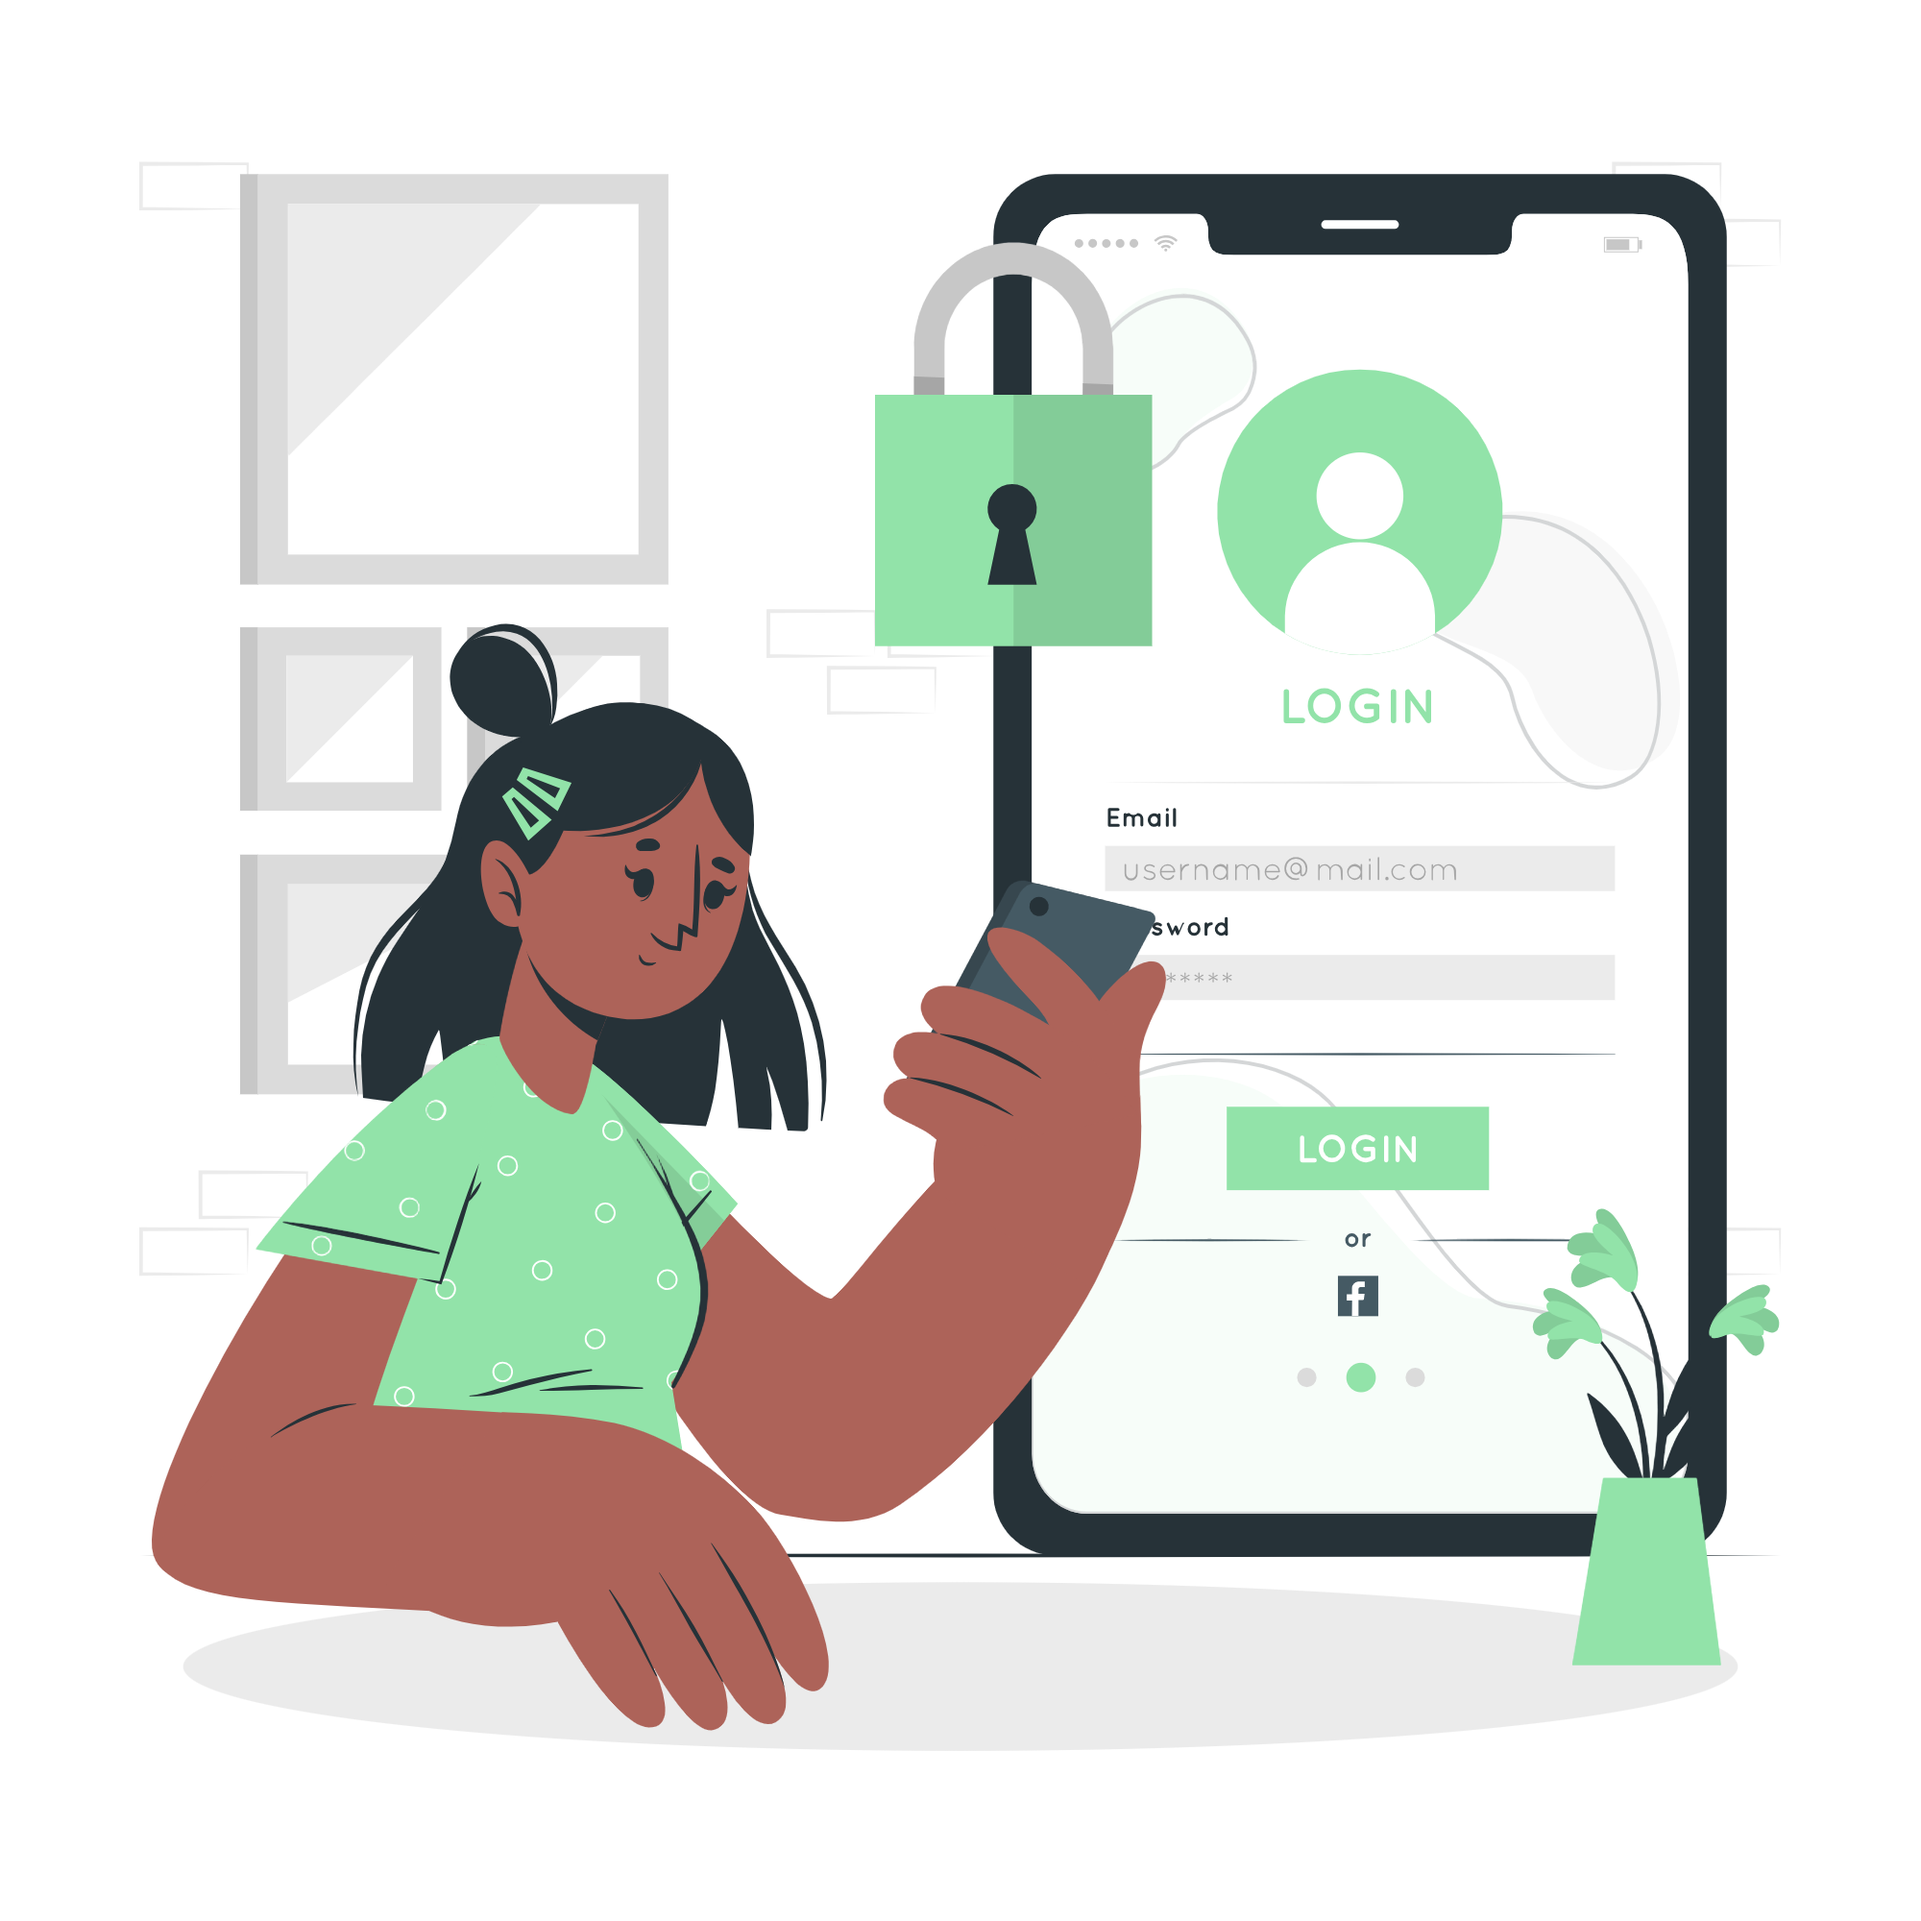
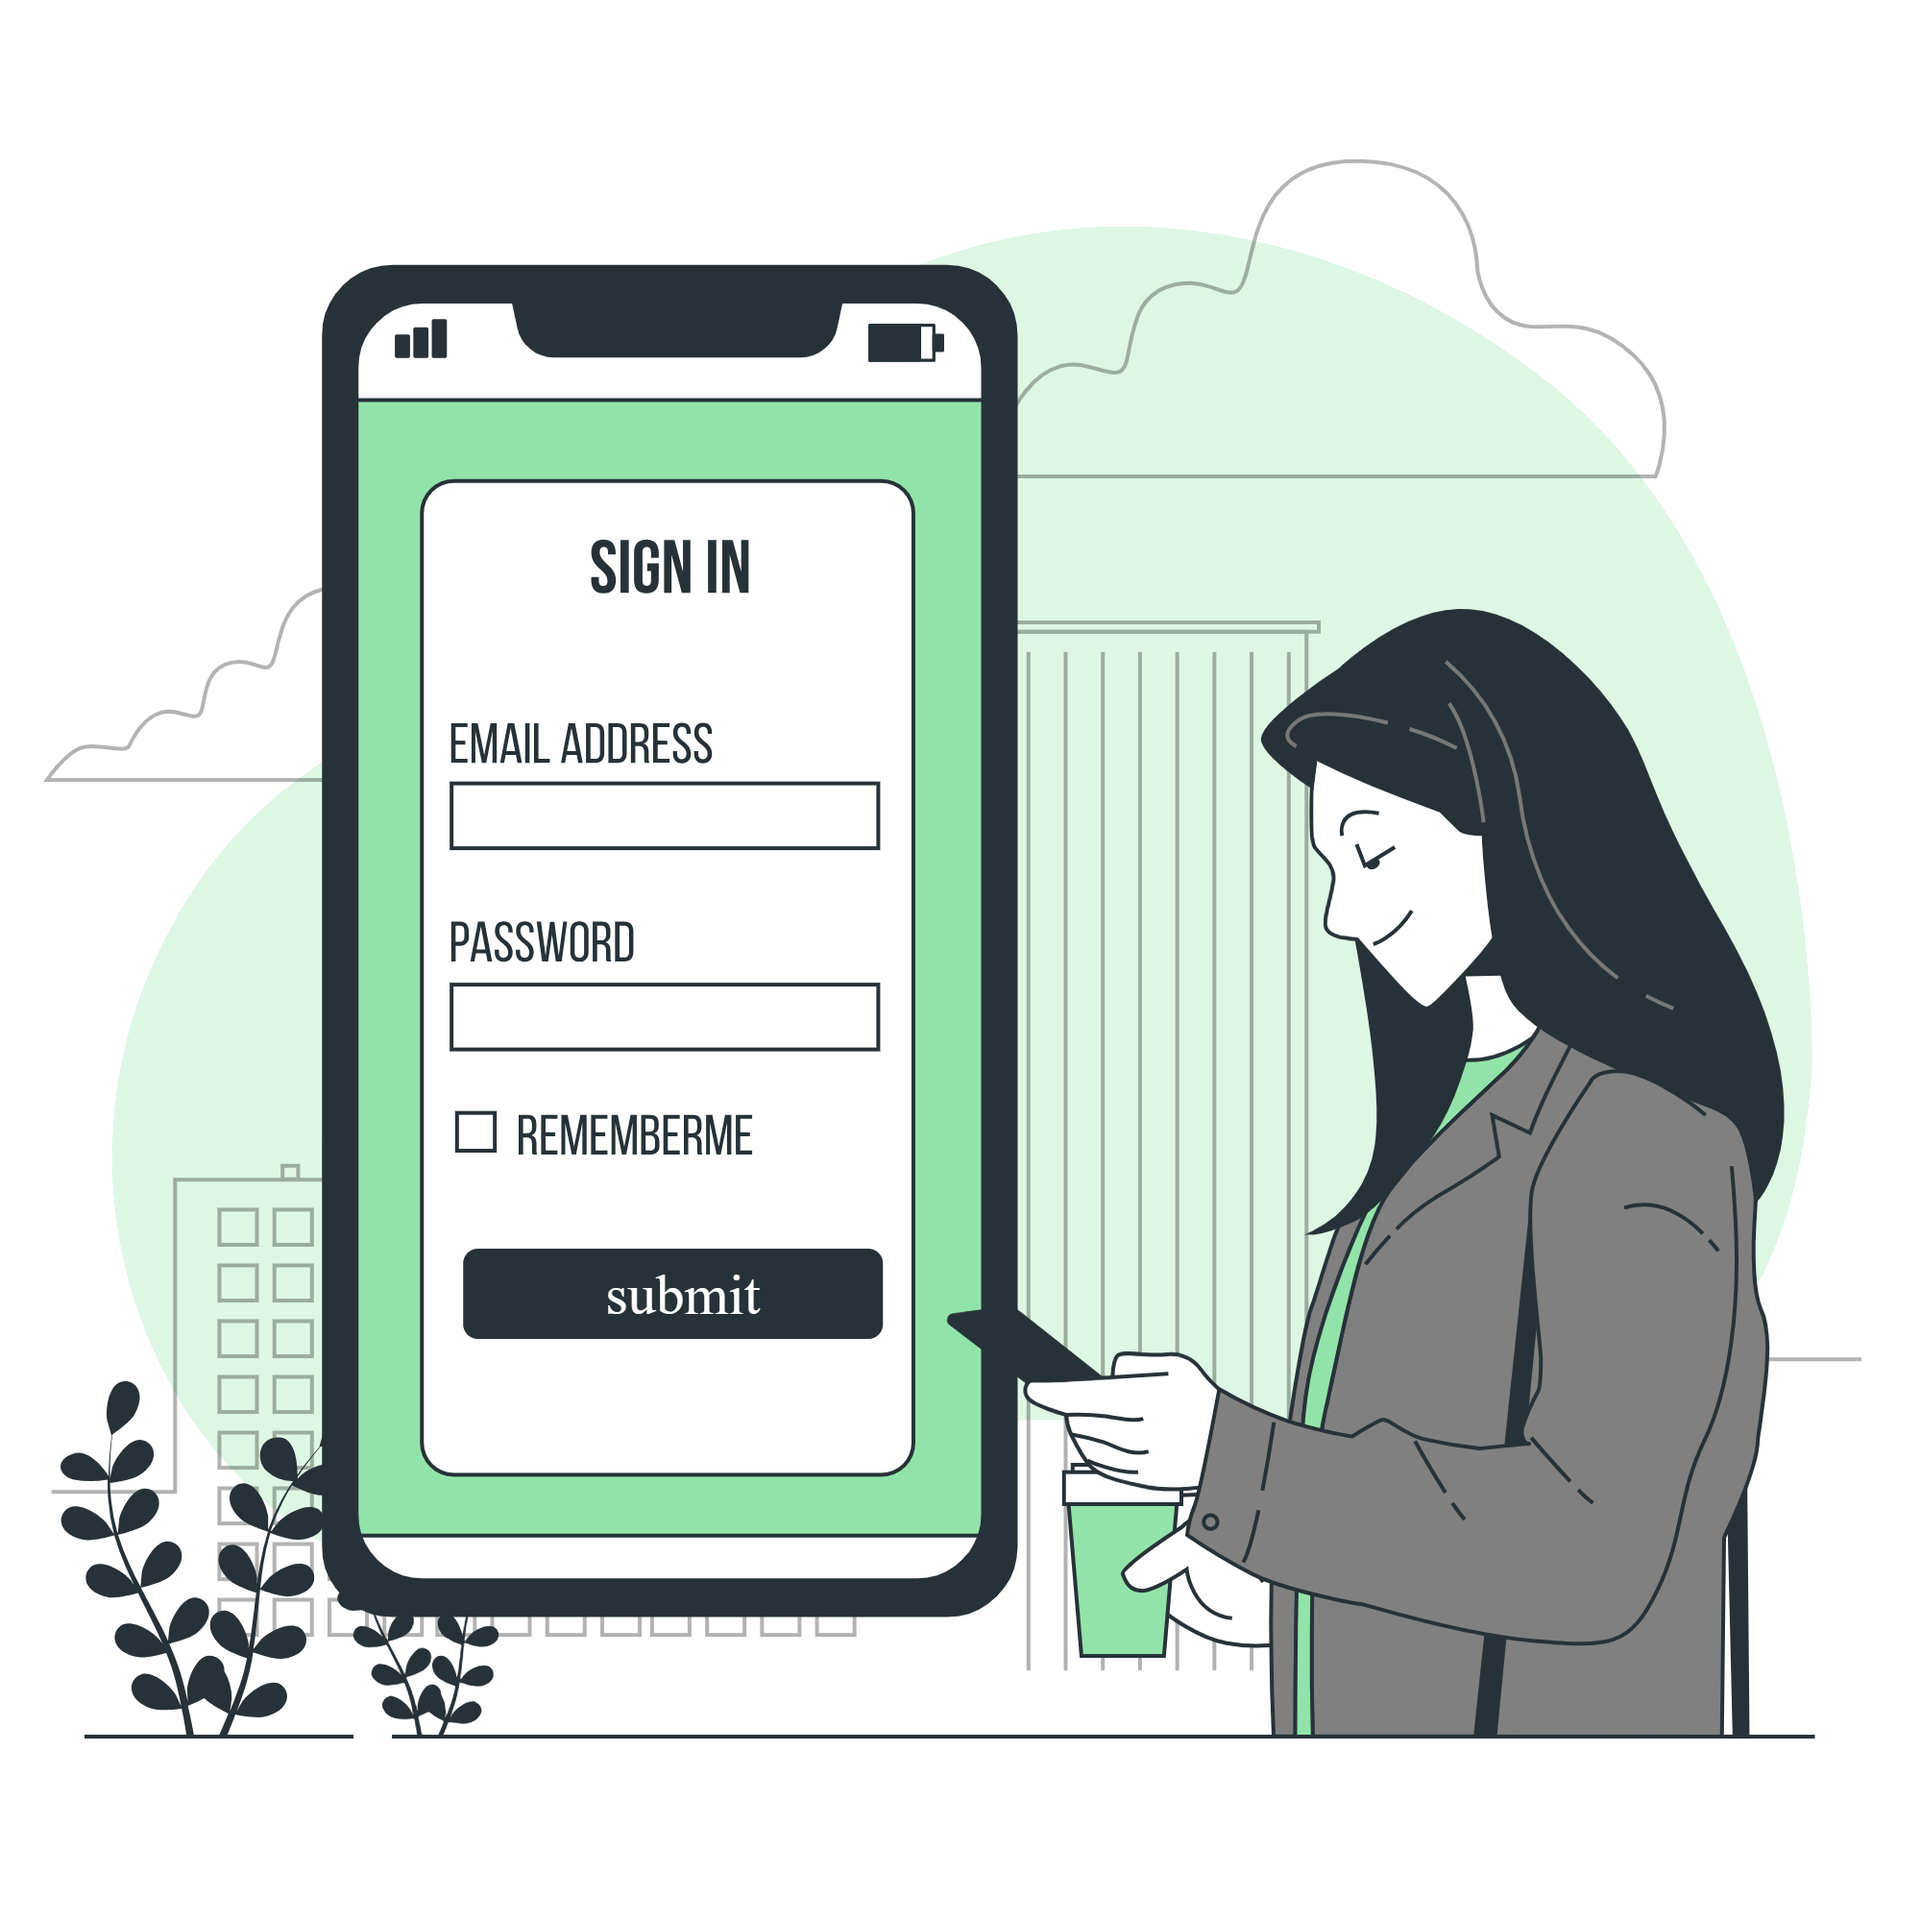
custom hook useAuth is ready

diff --git a/app/(auth)/signIn.jsx b/app/(auth)/signIn.jsx
@@ -9,25 +9,32 @@ import {
   KeyboardAvoidingView,
   Platform,
   Image,
+  ActivityIndicator,
 } from "react-native";
 import { useRouter } from "expo-router";
 import { Ionicons } from "@expo/vector-icons";
-import { useDispatch } from "react-redux";
+import { useDispatch, useSelector } from "react-redux";
 
 const loginHero = require("../../assets/images/auth/login.png");
 
 export default function SignIn() {
+  const loading = useSelector((state) => state.auth.loading);
   const dispatch = useDispatch();
   const router = useRouter();
   const [email, setEmail] = useState("");
   const [password, setPassword] = useState("");
   const [showPass, setShowPass] = useState(false);
 
+  const isDisabled = loading || !email.trim() || !password;
+
   const handleLogin = () => {
-    // if (!email.trim() || !password) return;
+    if (isDisabled) return;
     dispatch({
       type: "LOGIN",
-      payload: { loginData: { email: email.trim(), password } },
+      payload: {
+        loginData: { email: email.trim(), password },
+        navigate: (path) => router.replace(path),
+      },
     });
   };
 
@@ -129,11 +136,18 @@ export default function SignIn() {
               <View className="mt-6">
                 <Pressable
                   onPress={handleLogin}
-                  className="h-14 rounded-[28px] bg-[#1E6DFF] items-center justify-center"
+                  disabled={isDisabled}
+                  className={`h-14 rounded-[28px] items-center justify-center ${
+                    isDisabled ? "bg-[#1E6DFF]/60" : "bg-[#1E6DFF]"
+                  }`}
                 >
-                  <Text className="text-white text-[16px] font-semibold">
-                    Login
-                  </Text>
+                  {loading ? (
+                    <ActivityIndicator size="small" color="#fff" />
+                  ) : (
+                    <Text className="text-white text-[16px] font-semibold">
+                      Login
+                    </Text>
+                  )}
                 </Pressable>
 
                 <View className="mt-7 flex-row items-center">

diff --git a/sagas/Auth/authSaga.js b/sagas/Auth/authSaga.js
@@ -31,7 +31,7 @@ function* clearToken() {
 
 // Login Saga
 function* loginSaga({ payload }) {
-  const { loginData } = payload;
+  const { loginData, navigate } = payload || {};
   try {
     yield put(loginStart());
 
@@ -50,6 +50,12 @@ function* loginSaga({ payload }) {
     // persist token for fetcher and keep in Redux (persisted slice)
     yield call(setToken, data.token);
     yield put(loginSuccess(data));
+
+    // role-based redirect
+    if (navigate) {
+      const dest = data?.user?.role === "teacher" ? "/" : "/home";
+      yield call(navigate, dest);
+    }
   } catch (error) {
     const message = error.message || "Login failed.";
     yield put(loginFailure(message));
@@ -81,13 +87,21 @@ function* registerSaga({ payload }) {
   }
 }
 
-function* logoutSaga() {
+function* logoutSaga({ payload }) {
+  const { navigate } = payload || {};
   // Clear device token + reset Redux state
   yield call(clearToken);
   yield put(signedOut());
 
-  // OPTIONAL: fully wipe persisted auth from storage (off by default)
+  // OPTIONAL: wipe persisted state (keep if you want a hard reset)
   yield call(purgeStoredState, authPersistConfig);
+
+  // Navigate back to Welcome
+  if (navigate) {
+    // pick the one that matches your folder:
+    const dest = "/(auth)/welcome"; // or "/welcome"
+    yield call(navigate, dest);
+  }
 }
 
 // Root Auth Saga

diff --git a/components/Teacher/HomeScreen/Header.jsx b/components/Teacher/HomeScreen/Header.jsx
@@ -1,7 +1,21 @@
 import { View, Text, Image, TouchableOpacity } from "react-native";
 import { Feather, Ionicons } from "@expo/vector-icons";
+import { useDispatch } from "react-redux";
+import { useRouter } from "expo-router";
 
 const Header = () => {
+  const dispatch = useDispatch();
+
+  const router = useRouter();
+
+  const onLogout = () => {
+    dispatch({
+      type: "LOGOUT",
+      payload: {
+        navigate: (path) => router.replace(path),
+      },
+    });
+  };
   return (
     <View className="flex-row items-center justify-between ">
       <View className="flex-row items-center ">
@@ -26,6 +40,13 @@ const Header = () => {
         <TouchableOpacity className="p-2 rounded-full bg-white/10 relative">
           <Ionicons name="notifications-outline" size={20} color="white" />
           <View className="absolute -top-1 -right-1 w-3 h-3 bg-red-500 rounded-full border-2 border-white" />
+        </TouchableOpacity>
+
+        <TouchableOpacity
+          onPress={onLogout}
+          className="p-2 rounded-full bg-white/10"
+        >
+          <Ionicons name="log-out-outline" size={20} color="white" />
         </TouchableOpacity>
       </View>
     </View>

diff --git a/hooks/useAuth.js b/hooks/useAuth.js
@@ -1,0 +1,16 @@
+import { useSelector } from "react-redux";
+import { useMemo } from "react";
+
+export default function useAuth() {
+  const user = useSelector((s) => s.auth.user);
+  const token = useSelector((s) => s.auth.token);
+  const loading = useSelector((s) => s.auth.loading);
+  const error = useSelector((s) => s.auth.error);
+  const isAuthenticated = useSelector((s) => s.auth.isAuthenticated);
+
+  // stable identity unless one of the fields actually changes
+  return useMemo(
+    () => ({ user, token, loading, error, isAuthenticated }),
+    [user, token, loading, error, isAuthenticated]
+  );
+}

diff --git a/store/persistConfig.js b/store/persistConfig.js
@@ -1,11 +1,7 @@
-import SecureStoreStorage from "./secureStoreStorage";
+import AsyncStorage from "@react-native-async-storage/async-storage";
 
 export const authPersistConfig = {
   key: "auth",
-  storage: SecureStoreStorage,
-  // If you want to avoid storing transient fields:
-  // blacklist: ["loading", "error"],
-  // If you prefer not to persist token (since we also save it as "authToken"),
-  // uncomment this (but then hydrate carefully):
-  // blacklist: ["token", "loading", "error"],
+  storage: AsyncStorage,
+  blacklist: ["loading", "error"],
 };

diff --git a/store/store.js b/store/store.js
@@ -12,7 +12,7 @@ const persistedAuthReducer = persistReducer(authPersistConfig, authReducer);
 
 export const store = configureStore({
   reducer: {
-    auth: persistedAuthReducer, // <- only this slice is persisted
+    auth: persistedAuthReducer, // only this is persisted
   },
   middleware: (getDefault) =>
     getDefault({
@@ -26,6 +26,7 @@ export const store = configureStore({
           "persist/PURGE",
           "persist/REGISTER",
         ],
+        ignoredActionPaths: ["payload.navigate"],
       },
     }).concat(sagaMiddleware),
 });

diff --git a/app/(auth)/_layout.jsx b/app/(auth)/_layout.jsx
@@ -1,6 +1,13 @@
-import { Stack } from "expo-router";
+import { Redirect, Stack } from "expo-router";
+import useAuth from "../../hooks/useAuth";
 
 export default function AuthRoutesLayout() {
+  const { user } = useAuth();
+
+  if (user) {
+    return <Redirect href={"/"} />;
+  }
+
   return (
     <Stack
       screenOptions={{

diff --git a/app/(protected)/_layout.jsx b/app/(protected)/_layout.jsx
@@ -1,9 +1,10 @@
 import { Stack, router, Redirect } from "expo-router";
+import useAuth from "../../hooks/useAuth";
 
 export default function AppLayout() {
-  const isSignedIn = false;
+  const { user } = useAuth();
 
-  if (isSignedIn === false) {
+  if (!user) {
     return <Redirect href={"/welcome"} />;
   }
 
